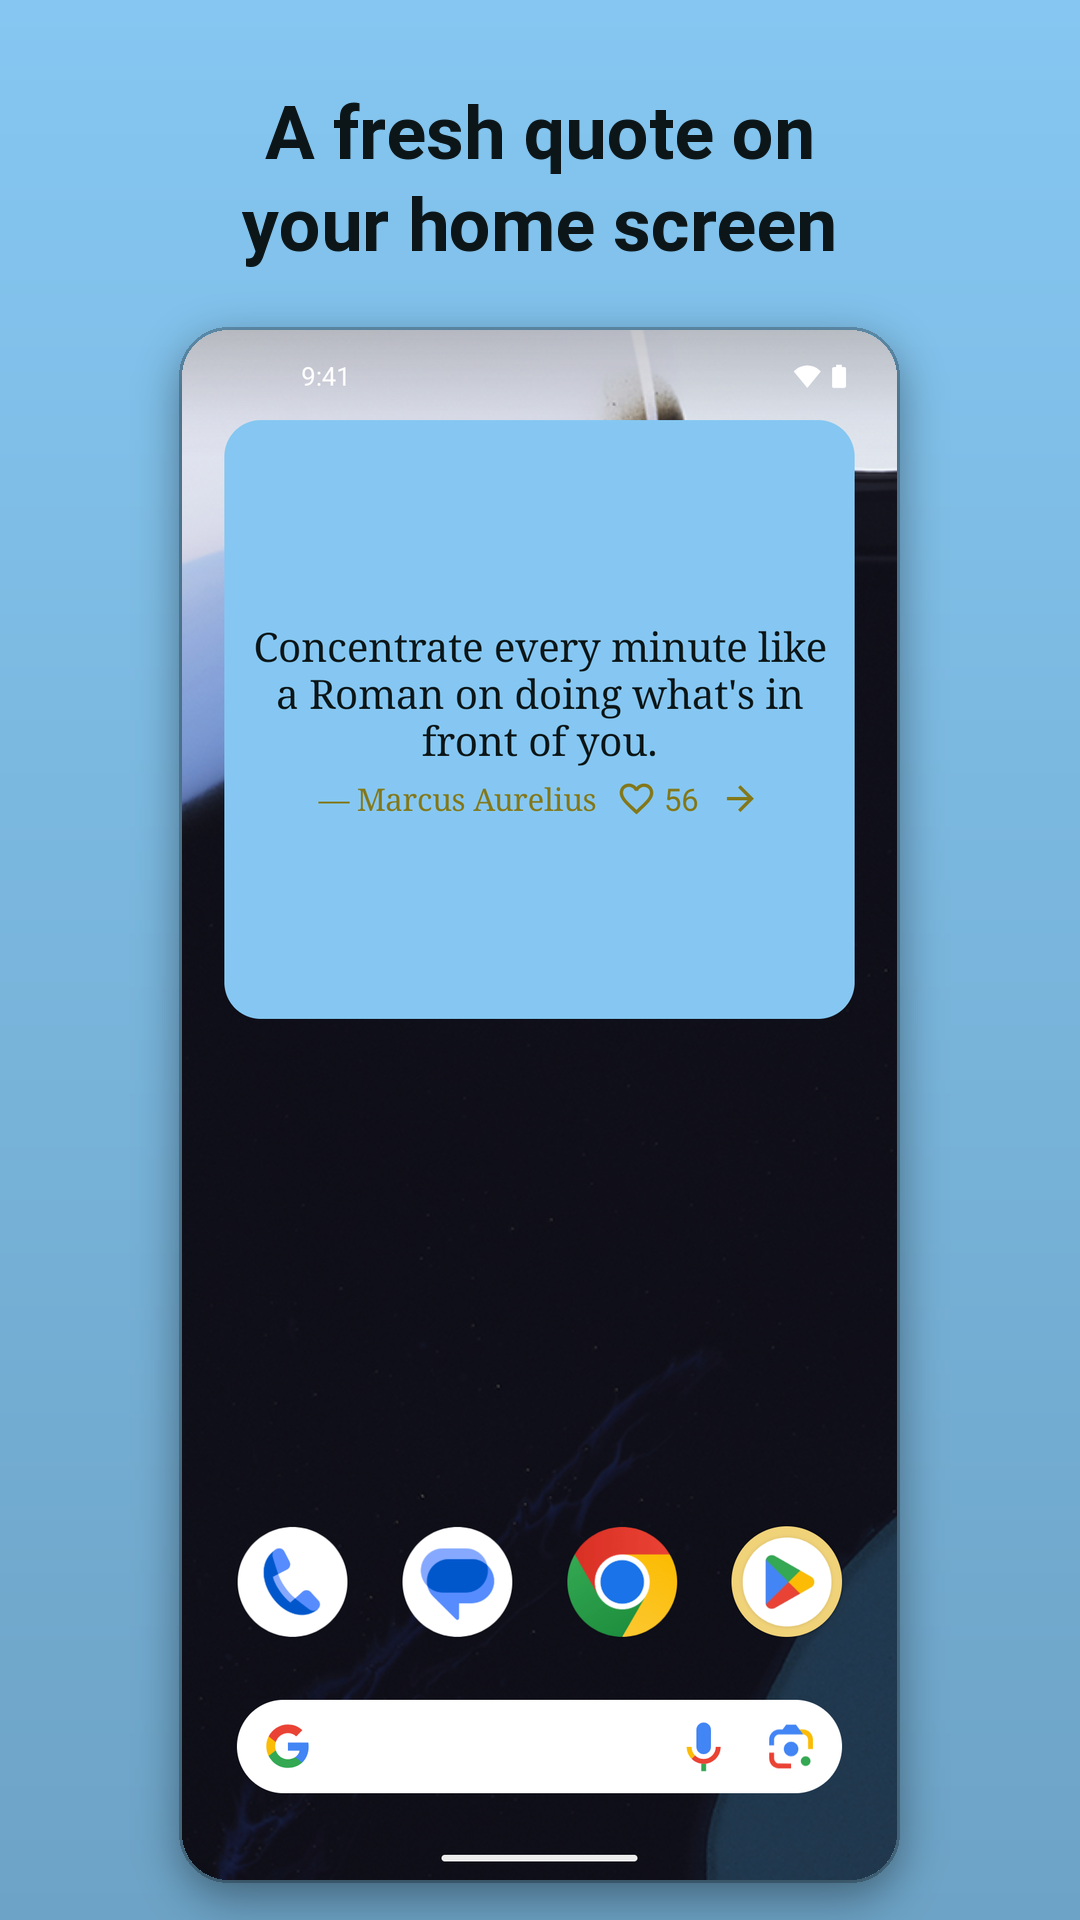
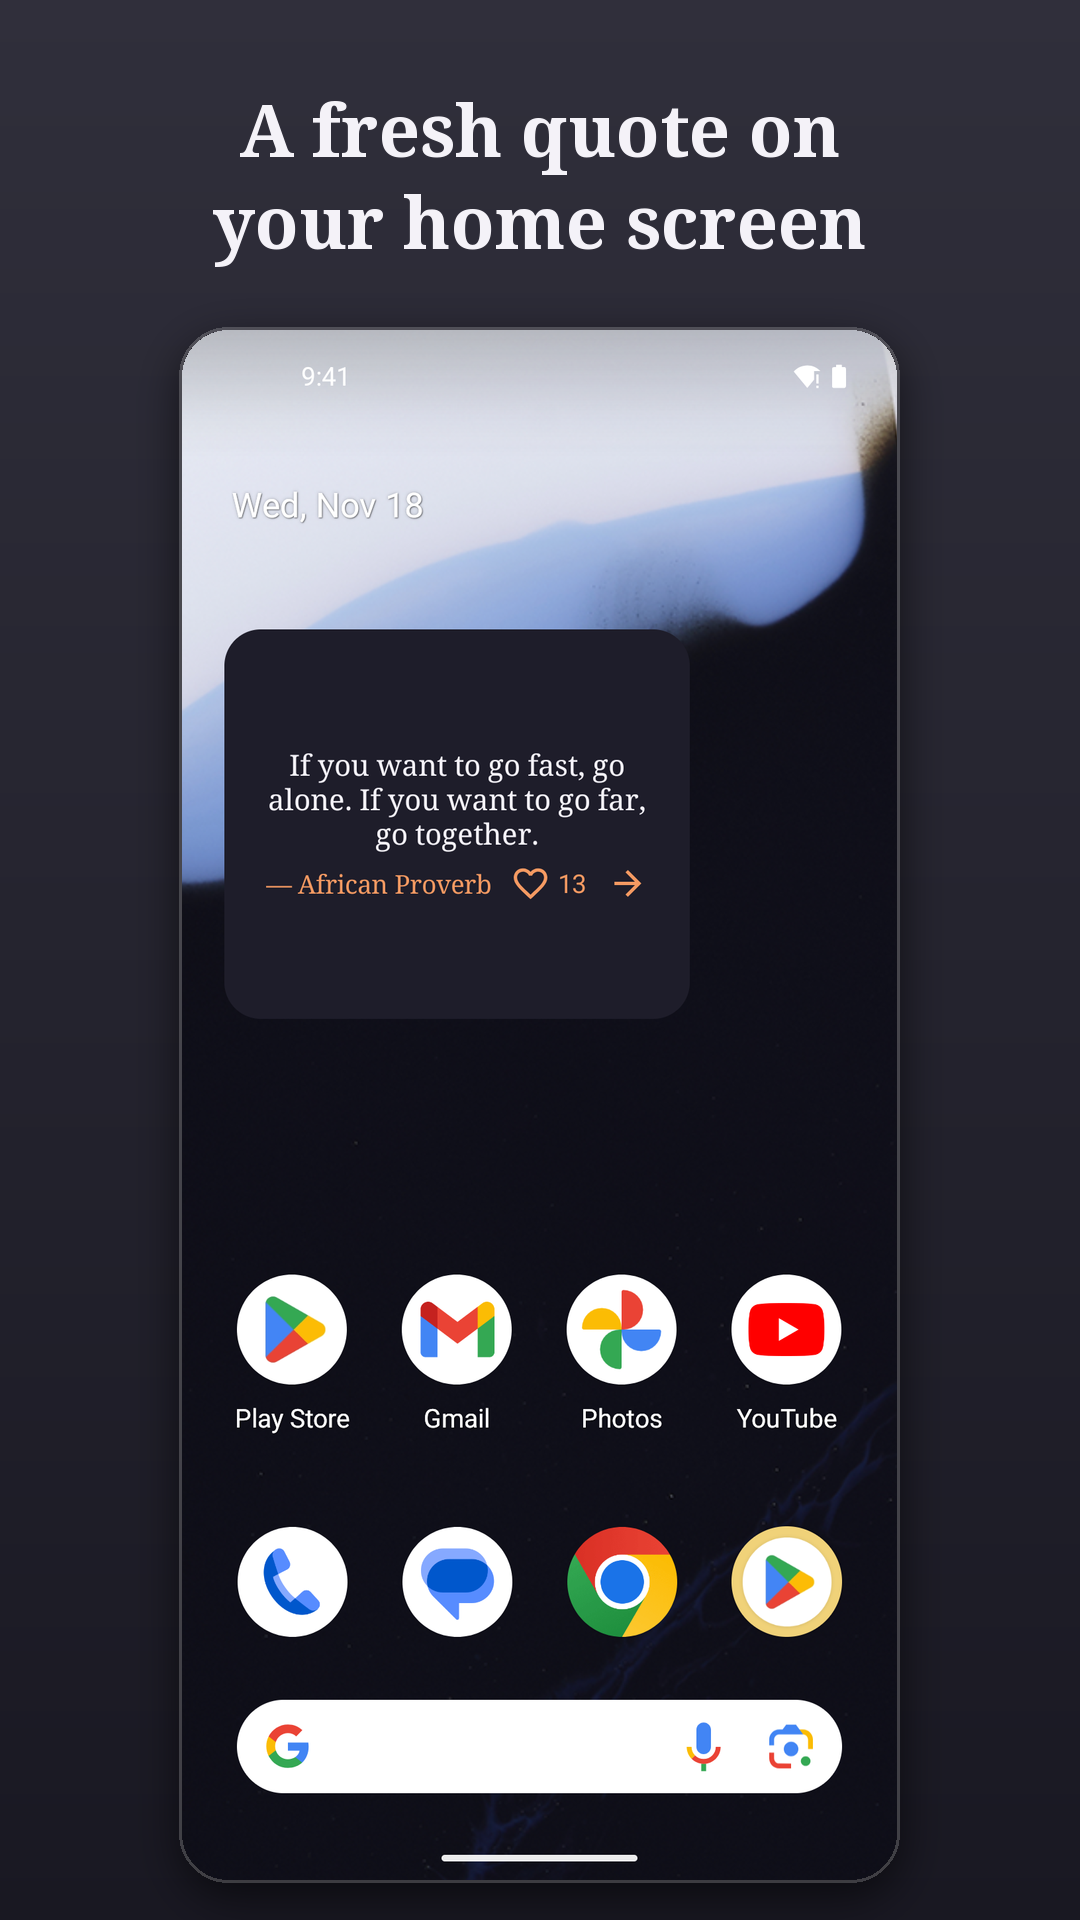
Retake the Play Store screenshots for the 1.1.0 redesign
Each screen is shown in a different palette (Espresso, Midnight, Sky, Linen,
Ember), framed in that palette's colors with serif captions. The script can
now skip the feature graphic (pass - as the icon), which stays as it was.

diff --git a/tools/make_store_assets.py b/tools/make_store_assets.py
@@ -2,6 +2,7 @@
 """Builds the Play Store feature graphic and the framed phone screenshots.
 
     python3 tools/make_store_assets.py <iOS 1024px icon> <folder of raw emulator screenshots>
+    python3 tools/make_store_assets.py - <folder>   # screenshots only, keep the feature graphic
 
 Raw screenshots are 1080x2340 PNGs taken with `adb exec-out screencap -p` (status bar in demo
 mode). Writes store/feature_graphic.png and store/screenshots/*.png (1080x1920).
@@ -21,15 +22,16 @@ BOLD = os.path.join(FONTS, "Roboto-Bold.ttf")
 MEDIUM = os.path.join(FONTS, "Roboto-Medium.ttf")
 SERIF_BOLD = os.path.join(FONTS, "NotoSerif-Bold.ttf")
 
-# (raw file, caption, background, caption color) in store order
+# (raw file, caption, background, caption color) in store order. Each screen was taken in a
+# different palette; the background and caption use that palette's colors.
 SCREENS = [
-    ("s5_widget.png", "A fresh quote on\nyour home screen", "#85C7F2", "#0C1618"),
-    ("s1_feed.png", "Scroll, save and\nshare quotes", "#504136", "#F8F3E1"),
-    ("s7_notification.png", "One quote a day, at\nthe time you choose", "#001427", "#EDD4B2"),
-    ("s4_appearance.png", "Your colors,\nyour font", "#001427", "#EDD4B2"),
-    ("s2_search.png", "Search by quote\nor author", "#504136", "#F8F3E1"),
-    ("s3_top.png", "The community's\nfavourite quotes", "#39474F", "#E7F3F1"),
-    ("s6_community.png", "Submit quotes\nof your own", "#EFF8E2", "#423E37"),
+    ("s5_widget.png", "A fresh quote on\nyour home screen", "#1E1D2A", "#F4F2F8"),  # Ember
+    ("s1_feed.png", "Scroll, save and\nshare quotes", "#3A2C24", "#F7EEDD"),  # Espresso
+    ("s4_appearance.png", "Eight palettes,\nor your own colors", "#3A2C24", "#F7EEDD"),  # Espresso
+    ("s2_search.png", "Search by quote\nor author", "#0C1A2E", "#F1E4CE"),  # Midnight
+    ("s3_top.png", "The community's\nfavourite quotes", "#DCEEF8", "#0F2536"),  # Sky
+    ("s6_community.png", "Submit quotes\nof your own", "#F6F0E6", "#3A2E27"),  # Linen
+    ("s7_notification.png", "One quote a day, at\nthe time you choose", "#1E1D2A", "#F4F2F8"),  # Ember
 ]
 
 
@@ -69,7 +71,7 @@ def framed_screenshot(raw_path, caption, bg_hex, text_hex, out_path):
     canvas = vertical_gradient((W, H), shade(bg, -0.08) if not light else bg, shade(bg, 0.18)).convert("RGBA")
     d = ImageDraw.Draw(canvas)
 
-    font = ImageFont.truetype(BOLD, 74)
+    font = ImageFont.truetype(SERIF_BOLD, 72)
     y = 90
     for line in caption.split("\n"):
         tw = d.textlength(line, font=font)
@@ -130,7 +132,8 @@ def feature_graphic(icon_path, out_path):
 def main():
     icon, raw_dir = sys.argv[1], sys.argv[2]
     os.makedirs(os.path.join(STORE, "screenshots"), exist_ok=True)
-    feature_graphic(icon, os.path.join(STORE, "feature_graphic.png"))
+    if icon != "-":
+        feature_graphic(icon, os.path.join(STORE, "feature_graphic.png"))
     for i, (raw, caption, bg, fg) in enumerate(SCREENS, start=1):
         path = os.path.join(raw_dir, raw)
         if not os.path.exists(path):
